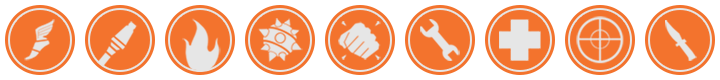
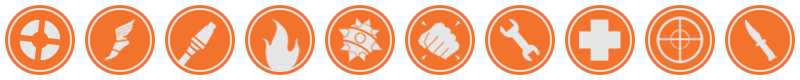
Mod boxes are now essentially complete On hover, mod stats are shown, such as downloads

diff --git a/app/assets/sass/mods.sass b/app/assets/sass/mods.sass
@@ -3,11 +3,21 @@
   text-overflow: ellipsis
   white-space: nowrap
 
+=class-icons($mods_tf-class-icon-width)
+  @for $i from 0 to length($mods_tf-classes)
+    $mods_tf-class: nth($mods_tf-classes, $i+1)
+    &.#{$mods_tf-class}
+      background-position: -#{$i * $mods_tf-class-icon-width}px
+
+$mods_tf-mods-info-transition: 0.2s
+
 +font-face("Neris SemiBold", "../fonts/neris-semibold/Neris-SemiBold-webfont")
 
 .mod
   position: relative
   float: left
+  font-size: 18px
+  overflow: hidden
   &:hover
     color: inherit
 
@@ -15,17 +25,19 @@
     position: absolute
     width: 100%
     bottom: 0
+    margin-bottom: -3.5em
     background: transparentize($mods_tf-orange, 0.7)
     padding: 15px
+    +transition(margin-bottom $mods_tf-mods-info-transition ease)
     
     & .name
-      +overflow_ellipse()
+      +overflow_ellipse
       font:
-        size: golden-ratio(16px, 1)
+        size: golden-ratio(18px, 1)
         family: Neris SemiBold, $mods_tf-fonts
 
     & .authors
-      +overflow_ellipse()
+      +overflow_ellipse
 
   & .mod_class
     width: 80px
@@ -33,17 +45,61 @@
     background-image: url('../images/class_icons.png')
     +position(absolute, 10px 10px null null)
 
-    $mods_tf-class-icon-width: 80
-    @for $i from 0 to length($mods_tf-classes)
-      $mods_tf-class: nth($mods_tf-classes, $i+1)
-      &.#{$mods_tf-class}
-        background-position: -#{$i * $mods_tf-class-icon-width}px
-
-
+    +class-icons(80)
 
   & img
     display: block
-    max-width: 500px
+    max-width: 480px
+
+  & .spacer
+    height: 2px
+    margin: 8px 0
+    +transition(background-color $mods_tf-mods-info-transition ease)
+
   &.small
+    font-size: 14px
     & img
-      max-width: 250px
+      max-width: 240px
+    & .info
+      padding: 10px
+      & .name
+        font-size: golden-ratio(14px, 1)
+    & .mod_class
+      top: 5px
+      right: 5px
+      width: 50px
+      height: 50px
+      background-size: 500px 50px
+      +class-icons(50)
+
+  &:hover > .info
+    margin-bottom: 0px
+    & .spacer
+      background-color: $mods_tf-orange
+  & .stats
+    overflow: auto
+    ul
+      list-style: none
+      margin: 0
+      padding: 0
+    & li
+      display: inline
+      color: $mods_tf-orange
+      font-weight: 800
+      font-size: 1.2em
+      float: left
+      border-right: 1px solid transparentize($mods_tf-orange, .8)
+      line-height: 1.1em
+      padding: 0 .7em 0 .7em
+
+      &:first-child
+        padding-left: 0
+
+      &:last-child
+        border-right: 0
+
+      span
+        color: $mods_tf-text-color
+        font-size: .7em
+        display: block
+        font-weight: normal

diff --git a/app/templates/layout.html b/app/templates/layout.html
@@ -6,22 +6,22 @@
     {% assets "main_css" %}
         <link href="{{ ASSET_URL }}" rel="stylesheet">
     {% endassets %}
-</head>
-<body>
-    {% include "header.html" %}
-        <div class="container cf">
-            {% for category, message in get_flashed_messages(with_categories=true) %}
-                <div class="flash alert {{ 'alert-' + category if category != 'message' else 'alert-info'}}">
-                <button type="button" class="close">×</button>
-                    {{message}}
-                </div>
-            {% endfor %}
-            {% block content %}
-            {% endblock %}
-        </div>
     <script src="//ajax.googleapis.com/ajax/libs/jquery/1.11.1/jquery.min.js"></script>
     {% assets "main_js" %}
         <script src="{{ ASSET_URL }}"></script>
     {% endassets %}
+</head>
+<body>
+    {% include "header.html" %}
+    <div class="container cf">
+        {% for category, message in get_flashed_messages(with_categories=true) %}
+            <div class="flash alert {{ 'alert-' + category if category != 'message' else 'alert-info'}}">
+            <button type="button" class="close">×</button>
+                {{message}}
+            </div>
+        {% endfor %}
+        {% block content %}
+        {% endblock %}
+    </div>
 </body>
 </html>

diff --git a/app/templates/mods/macros.html b/app/templates/mods/macros.html
@@ -1,9 +1,16 @@
 {% macro mod_block(mod) -%}
-    <a href="#mods" class="mod{{ " %s" % mod.classes if mod.classes }}">
+    <a href="#mods" class="mod {{ mod.size }}">
         <div class="mod_class {{ mod.mod_class }}"></div>
         <div class="info">
-            <div class="authors">{{ mod.author }}</div>
+            <div class="authors">{{ mod.author |safe}}</div>
             <div class="name">{{ mod.pretty_name }}</div>
+            <div class="spacer"></div>
+            <div class="stats">
+            <ul>
+                <li>{{ mod.downloads | default("0") }}<span>Downloads</span></li>
+                <li>{{ mod.replacements | default("0") }}<span>Replacements</span></li>
+            </ul>
+            </div>
         </div>
         <img src="{{ url_for('mods.mod_image', name=mod.name, img_id=1) }}" />
     </a>

diff --git a/app/assets/sass/main.sass b/app/assets/sass/main.sass
@@ -4,7 +4,7 @@ $mods_tf-text-color: #e6e6e6
 $mods_tf-background-color: #312e29
 $mods_tf-orange: #f3732d
 $mods_tf-fonts: Neris Light, Helvetica Neue, Helvetica, Arial, sans-serif
-$mods_tf-classes: scout soldier pyro demo heavy engineer medic sniper spy
+$mods_tf-classes: all-class scout soldier pyro demo heavy engineer medic sniper spy
 
 +font-face("Neris Light", "../fonts/neris-light/Neris-Light-webfont")
 
@@ -23,8 +23,8 @@ html, body
 
 body
   color: $mods_tf-text-color
+  min-width: 1000px
   background: $mods_tf-background-color
-  min-width: 800px
   font:
     family: $mods_tf-fonts
 
@@ -36,9 +36,9 @@ body
   background: url('../images/mods_tf_logo.png') no-repeat center
 
 .container
-  max-width: 1000px
+  width: 1720px
   margin: 0 auto
-  padding: 0 15px
+  padding: 0 20px
   position: relative
 
 a

diff --git a/app/assets/sass/header.sass b/app/assets/sass/header.sass
@@ -41,7 +41,7 @@
   & .dropdown-menu
     position: absolute
     display: none
-    right: 15px
+    right: 20px
     top: 56px
     list-style: none
     background: darken($mods_tf-background-color, 8%)

diff --git a/app/views.py b/app/views.py
@@ -7,14 +7,33 @@ def index():
     return render_template('index.html', mods=[
         {
             "name":"arctic_aviator",
-            "author":"NeoDement, Kibble, NassimO, BANG!, void~, BADGERPIG, Frying Dutchman",
-            "pretty_name":"Arctic Aviator",
-            "mod_class": "heavy"
-        },
-        {
-            "name":"arctic_aviator",
             "author":"NeoDement, Kibble",
             "pretty_name":"Arctic Aviator",
-            "classes":"small"
+            "mod_class": "all-class",
+            "downloads": "242",
+            "replacements": "53"
+        },
+        {
+            "name":"engi_banditana",
+            "author":"Spark Wire, R&#9650;in, Metabolic",
+            "pretty_name":"The Farmer's Collective",
+            "mod_class": "engineer",
+            "size":"small"
+        },
+        {
+            "name":"battle_bowler",
+            "author":"donhonk, Sky, Metabolic",
+            "pretty_name":"Battle Bowler",
+            "mod_class": "demo",
+            "size":"small",
+            "downloads": "242",
+            "replacements": "53"
+        },
+        {
+            "name":"disco_shirt",
+            "author":"NeoDement, Spark Wire, Square",
+            "pretty_name":"Groovy Garment",
+            "mod_class": "demo",
+            "size":"small"
         }
     ])
